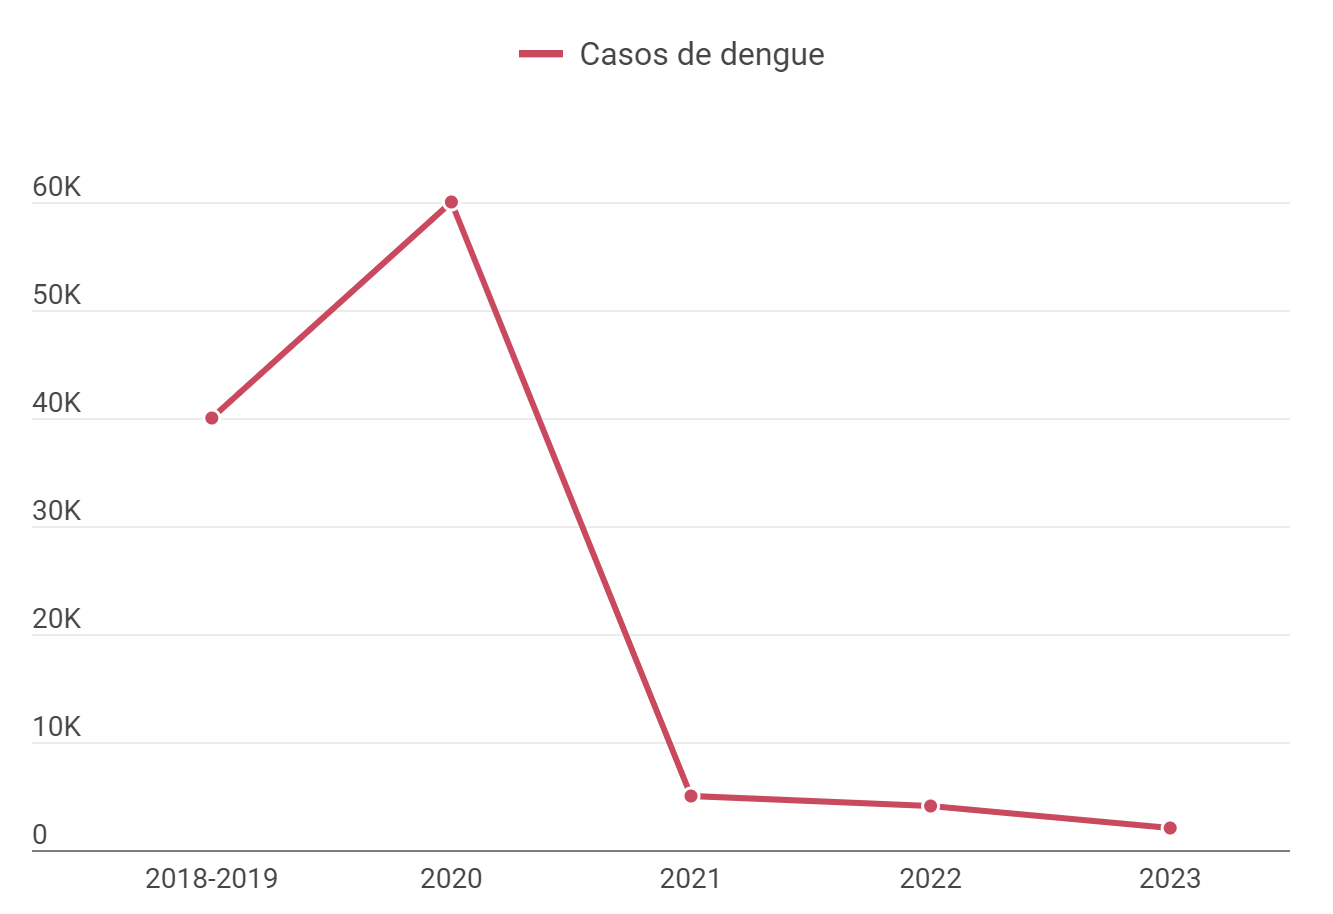
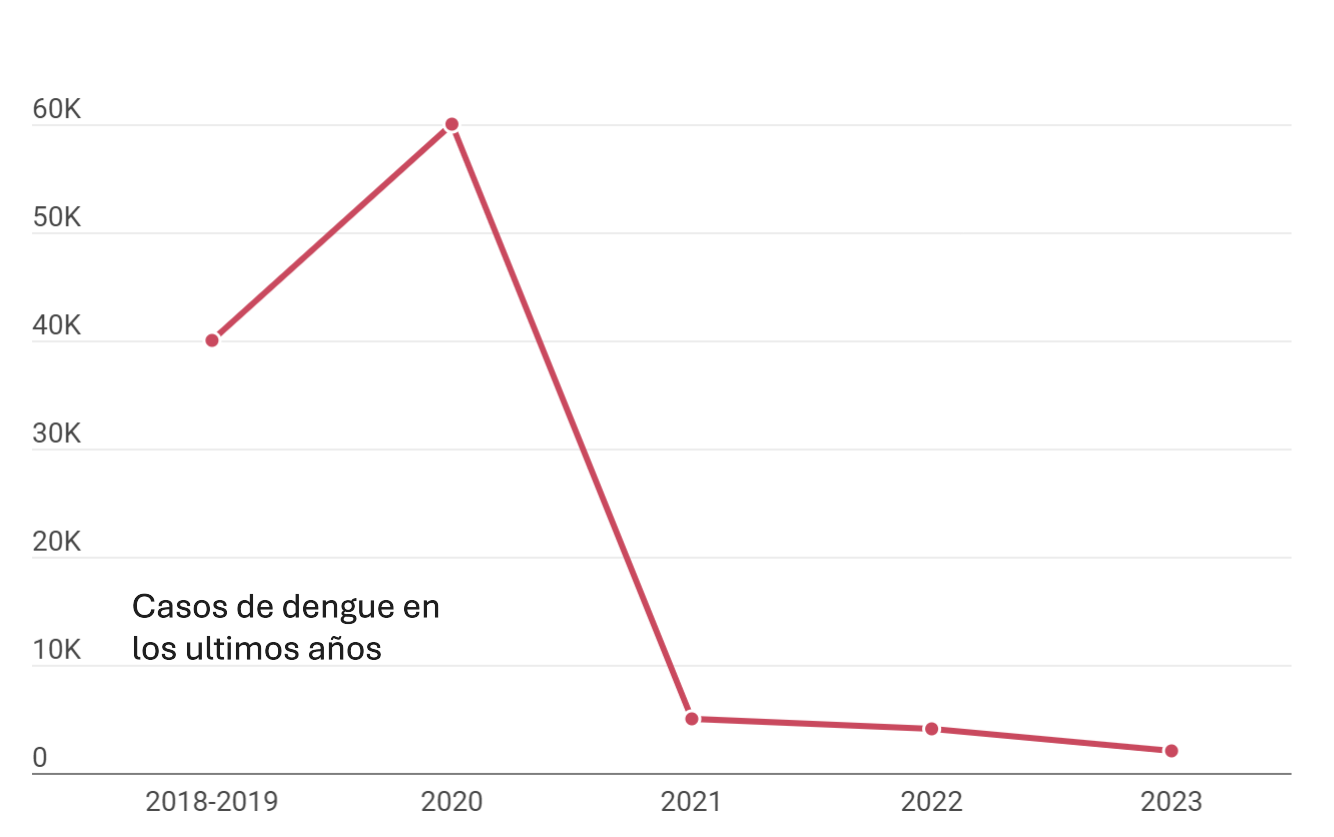
avances del martes

diff --git a/pages/campania.html b/pages/campania.html
@@ -16,9 +16,18 @@
     .bg-custom{
       background-color: #b9cbea;
     }
+    .shadow-box {
+      box-shadow: 0 4px 8px rgba(0, 0, 0, 0.2);
+      border: none;
+  }
+    .body{
+      background: linear-gradient(to bottom, #1a3a6e, #25457a, #2f4f87, #395b93, #4366a0, #5b75ac, #7084b8, #8594c4, #a7add2, #c6c7e1, #e3e2f0, #ffffff);
+      text-align:start;
+    }  
   </style>
 </head>
-<body>
+<body> <!--Comienzo del body-->
+  <div class="body">
   <nav class="navbar navbar-expand-lg  d-flex justify-content-center custom-nav">
     <ul class="nav nav-pills m-3" id="pills-tab" role="tablist">
       <li class="nav-item" role="presentation">
@@ -33,35 +42,77 @@
     </ul>
   </nav>
 
-  <div class="container mt-4">
-    <h1 class="mb-4 text-center">Protege Tu Salud: Información sobre el Dengue y su Prevención</h1>
+  <div class=" container mt-4 bg-custom-2">
+    <h1 class="mb-4 display-4 text-white">Protege Tu Salud: Información sobre el dengue y su prevención</h1>
     <div class="row align-items-start">
-      <div class="col-md-4 bg-custom p-3 d-flex align-items-center" style="height: 100%;">
-        <P>La vacunación contra el dengue es esencial para todas las edades. El gráfico muestra qué porcentajes de personas en cada grupo etario han sido vacunadas, ayudando a identificar los grupos más protegidos y enfocar esfuerzos de prevención donde sea necesario.</P>
+      <div class=" card col-md-7 bg-custom p-3 my-1 shadow-box">
+        <ul>
+          <li>
+            <b>Distribución de edades en la vacunación contra el dengue</b>
+            <p class="mt-1">
+              La vacunación contra el dengue es esencial para personas de todas las edades. El gráfico muestra qué porcentajes de personas en cada grupo etario han sido vacunadas, ayudando a identificar los grupos más protegidos y a enfocar esfuerzos de prevención donde sea necesario.
+              <br>
+            </p>
+          </li>
+          <li>
+            <b>La importancia de vacunarse hoy</b>
+            <p class="mt-1">
+              Protégete contra el dengue. Vacunarte no solo reduce el riesgo de contagio, sino también de complicaciones graves. ¡No importa tu edad, la prevención siempre es la mejor defensa!.
+            </p>
+          </li>
+        </ul>
       </div>
-      <div class="col-md-4 bg-primary d-flex justify-content-center">
+      <div class=" col-md-5 my-1 ">
         <img src="../assets/Grafico-1.PNG" alt="Grafico" class="img-fluid">
-      </div>
-      <div class="col-md-4 bg-custom p-3 d-flex align-items-center" style="height: 100%;">
-        <p> Protégete contra el dengue. Vacunarse reduce el riesgo de complicaciones y ayuda a mantener a todos los grupos de edad más seguros. ¡No importa tu edad, la prevención es clave!</p>
       </div>
     </div>
 
     <div class="row mt-5 align-items-start">
-      <div class="col-md-5 text-center">
-        <h3>Casos del ultimo año</h3> 
-        <img src="../assets/Grafico-2.PNG" alt="" style="width: 79%;">
+      <div class="col-md-5 text-center my-1">
+        <img src="../assets/Grafico-2.PNG" alt="" style="width: 100%;" class="img-fluid">
       </div>
-      <div class="col-md-7 bg-custom p-3">
-        <b>¿Qué es el dengue?</b>
-        <p class="mt-3 ">Es una enfermedad viral transmitida por mosquitos. Puede causar fiebre alta, dolores musculares y articulares, y en casos graves, complicaciones serias de salud. La prevención es clave para reducir su propagación."</p>
-        <b>¿Cómo prevenir el dengue?</b>
-        <p class="mt-3">Además de la vacunación, evita acumular agua en recipientes, mantén los espacios limpios, usa repelente de mosquitos y coloca mosquiteros en ventanas. Protegerse es responsabilidad de todos. Con pequeñas acciones, reducimos el riesgo de contagio.</p>
+      <div class=" card col-md-7 bg-custom p-3 my-1 shadow-box">
+        <ul>
+          <li>
+            <b>¿Qué es el dengue?</b>
+            <p class="mt-1 ">Es una enfermedad viral transmitida por mosquitos. Puede causar fiebre alta, dolores musculares y articulares, y en casos graves, complicaciones serias de salud. La prevención es clave para reducir su propagación.</p>
+          </li>
+          <li>
+            <b>¿Cómo prevenir el dengue?</b>
+        <p class="mt-1">Además de la vacunación, evita acumular agua en recipientes, mantén los espacios limpios, usa repelente de mosquitos y coloca mosquiteros en ventanas. Protegerse es responsabilidad de todos. Con pequeñas acciones, reducimos el riesgo de contagio.</p>
+          </li>
+        </ul>
       </div>
     </div>
-      <h2 class="mt-4">Presencia de sintomas:</h2>
-  </div>
-
+      <h2 class="mt-4 display-4">Presencia de sintomas:</h2>
+      <div class="row mt-5 align-items-start text-center">
+        <div class="col-md-2">
+          <img src="../assets/icono_sintomas1.png" alt="Imagen 1" class="img-fluid">
+          <p><b>Fiebre superior a 38°</b></p>
+        </div>
+        <div class="col-md-2">
+          <img src="../assets/icono_sintomas2.png" alt="Imagen 2" class="img-fluid">
+          <p><b>Dolor de cabeza</b></p>
+        </div>
+        <div class="col-md-2">
+          <img src="../assets/icono_sintomas3.png" alt="Imagen 3" class="img-fluid">
+          <p><b>Sarpullido</b></p>
+        </div>
+        <div class="col-md-2">
+          <img src="../assets/icono_sintomas4.png" alt="Imagen 4" class="img-fluid">
+          <p><b>Dolor articular o muscular</b></p>
+        </div>
+        <div class="col-md-2">
+          <img src="../assets/icono_sintomas5.png" alt="Imagen 5" class="img-fluid">
+          <p><b>Dolor abdominal</b></p>
+        </div>
+        <div class="col-md-2">
+          <img src="../assets/icono_sintomas6.png" alt="Imagen 6" class="img-fluid">
+          <p><b>Nauseas y vomitos</b></p>
+        </div>
+      </div>
+    </div>
+  </div> <!-- Fin del body -->
   <footer class="text-dark py-4 custom-footer">
     <div class="container">
       <div class="row border-top pt-4">
